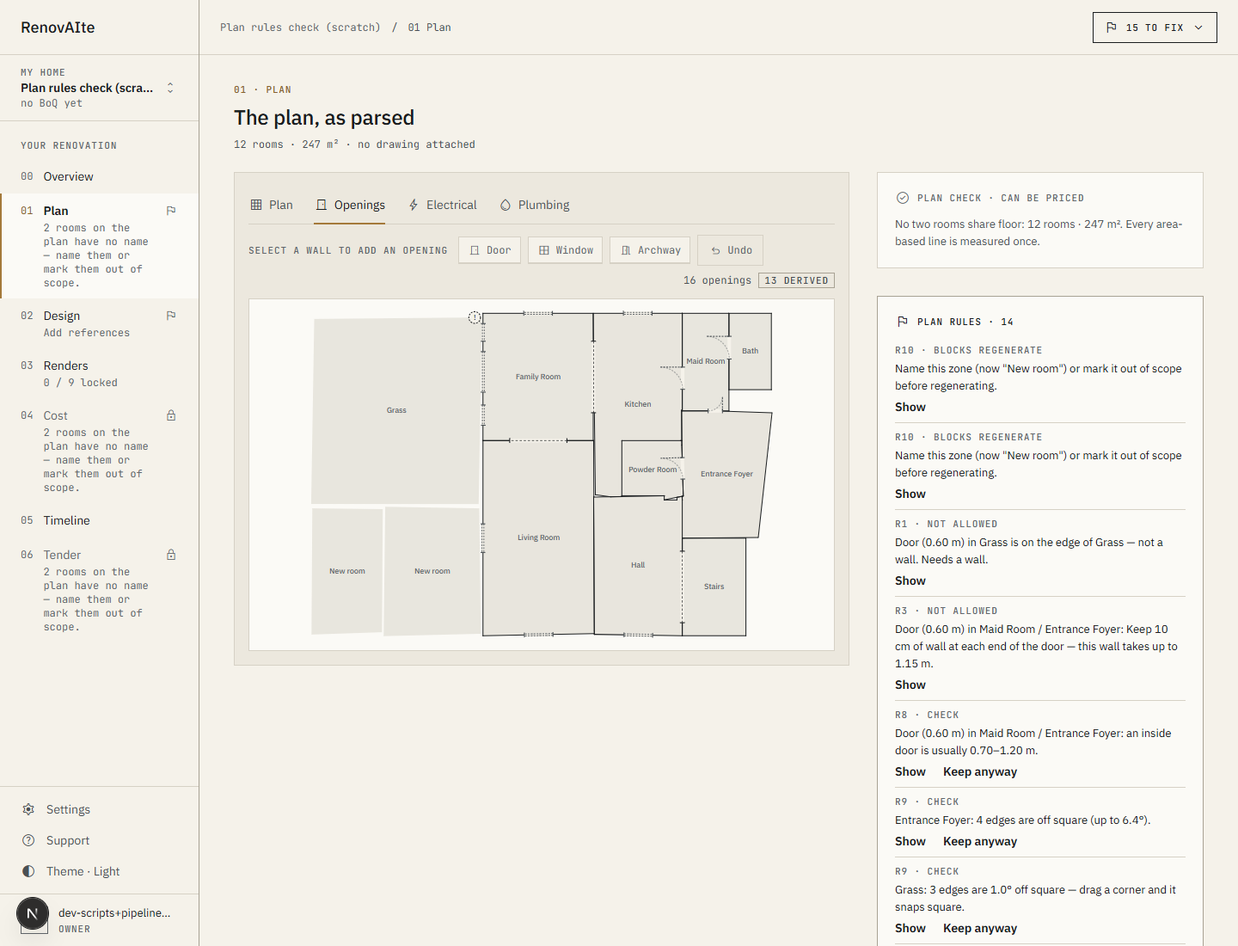
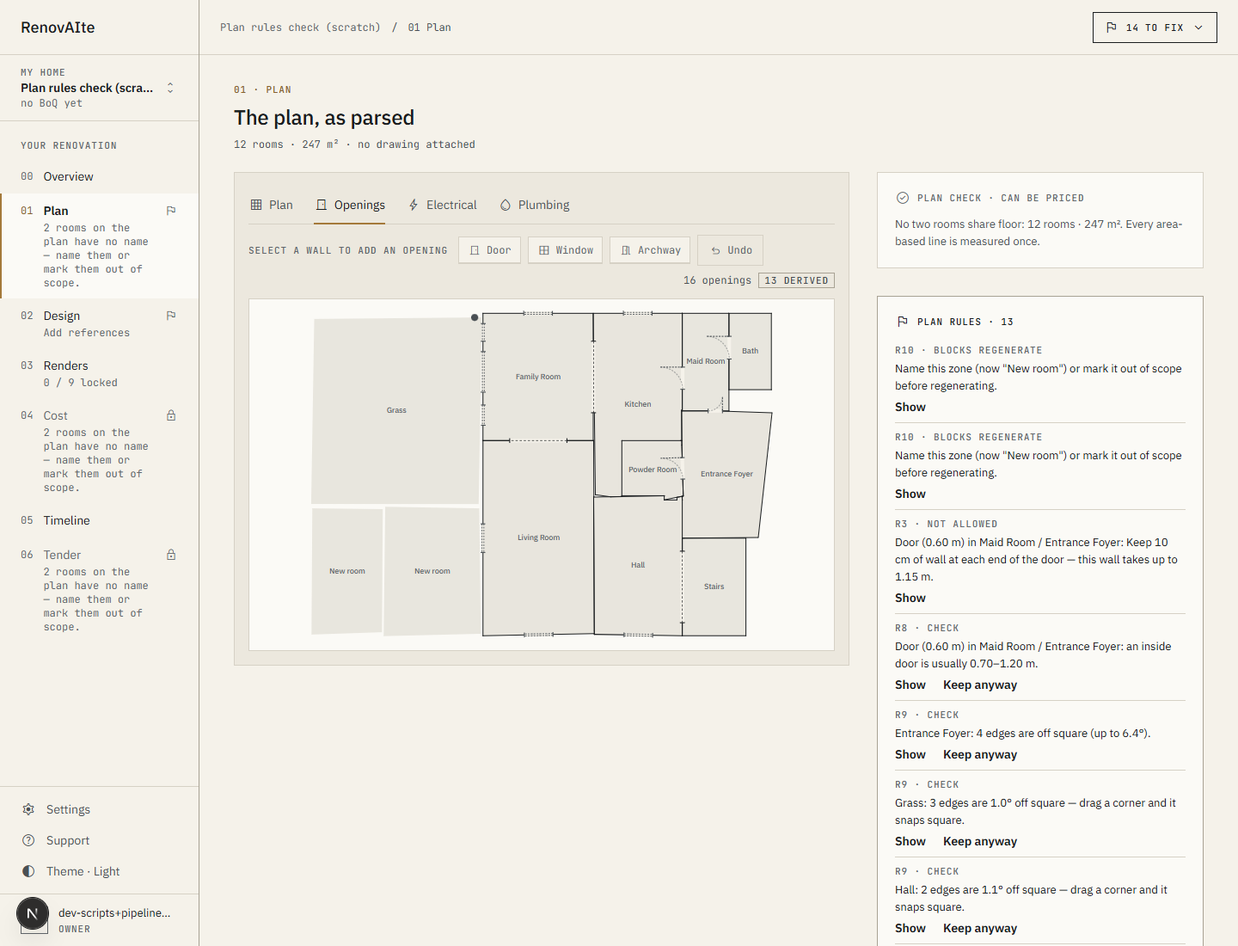
Plan rules: gardens exempt, snap only within 0.15 m, "N openings need a wall" cause
- Gates, openings in a garden wall, on a garden zone's edge or inside a garden
  zone are exempt from the plan rules (never "Needs a wall"); the "roofed room
  on one side" rule is gone. Test: a garden plan with a boundary gate, and
  Jumeirah Parks Garden with one.
- buildPlanGraph snaps an opening to a wall only within 0.15 m (before: any
  distance — a door on a lawn's edge came off the nearest house wall).
- Each BoQ revision records the openings it left out (openings_need_wall); the
  revision diff names the change on the lines net of openings: "N openings
  need a wall" / "N openings back on a wall".

Changed region(s): [[0.7188, 0.5564, 0.9375, 0.7418], [0.7188, 0.7727, 0.9375, 0.8964], [0.7188, 0.9273, 0.9375, 0.9582]]

diff --git a/lib/plan/__tests__/plan-rules.test.ts b/lib/plan/__tests__/plan-rules.test.ts
@@ -6,11 +6,14 @@ import { describe, expect, it } from "vitest";
 import fixture from "../__fixtures__/jumeirah-parks-plan-15oct.json";
 import { deriveWallSegments } from "../geometry";
 import { abbreviations, fitRoomLabel, labelInside } from "../label-fit";
+import { needsWallCause } from "../../boq/revision-causes";
+import { buildPlanGraph } from "../geometry";
 import { reanchorOpenings } from "../opening-anchor";
 import { planRuleIssues } from "../plan-issues";
 import {
   checkPlan,
   hardProblemFor,
+  inGarden,
   metresPerUnit,
   ON_WALL_TOL_M,
   openingsOnWalls,
@@ -152,6 +155,42 @@ describe("plan rules — soft (listed, can be kept)", () => {
   });
 });
 
+describe("gardens are exempt (ruled 15 Oct)", () => {
+  // A garden: the house (roofed), a paved terrace zone and a lawn, a boundary wall with a gate.
+  const house = room("house", rect(0, 0, 6, 4), { room_type: "living", name_en: "Living" });
+  const paving = room("paving", rect(0, 4, 6, 3), { room_type: "paving", unroofed: true, name_en: "Paving" });
+  const lawn = room("lawn", rect(0, 7, 6, 5), { room_type: "artificial_grass", unroofed: true, name_en: "Lawn" });
+  const garden = [house, paving, lawn];
+  const gateInWall: RuleOpening = { id: "gate", kind: "gate", width_mm: 1200, height_mm: 2000, sill_mm: 0, position: [3, 12], context_id: "wall-1" };
+  const gateOnEdge: RuleOpening = { id: "gate2", kind: "gate", width_mm: 1000, height_mm: 2000, sill_mm: 0, position: [6, 9] };
+  const doorBetweenZones = op("zone-door", "door", 2, 7, 900);
+  const doorInLawn = op("lawn-door", "door", 3, 9.5, 900);
+  const patioDoor = op("patio", "door", 3, 4, 900, { detection: { opens_to: "outside" } });
+
+  it("a boundary gate, a gate on a zone edge and a door between zones raise nothing and need no wall", () => {
+    const r = checkPlan({ rooms: garden, openings: [gateInWall, gateOnEdge, doorBetweenZones, doorInLawn, patioDoor], mPerU: 1 });
+    expect(r.violations.filter((v) => v.opening_id)).toEqual([]);
+    expect(r.needsWall.size).toBe(0);
+    for (const o of [gateInWall, gateOnEdge, doorBetweenZones, doorInLawn]) expect(inGarden(o, garden, 1), o.id).toBe(true);
+    expect(inGarden(patioDoor, garden, 1)).toBe(false); // the house wall onto the terrace is the house's
+  });
+
+  it("none of them is deducted from a house wall: the graph snaps only within 0.15 m", () => {
+    const g = buildPlanGraph({ projectId: "p", planId: "pl", scale: null, total_area_m2: 72, rooms: garden.map((r) => ({ id: r.id, name_en: r.name_en ?? null, name_ar: null, room_type: r.room_type ?? null, area_m2: null, polygon: (r.polygon as Pt[]).map(([x, y]) => [x / 6, y / 6]), unroofed: r.unroofed ?? null })), openings: [doorInLawn, patioDoor].map((o) => ({ id: o.id, type: o.kind, width_mm: o.width_mm, position: [(o.position as Pt)[0] / 6, (o.position as Pt)[1] / 6] })), unit_to_m: 6 });
+    expect(g.openings.find((o) => o.id === "lawn-door")!.wall_id).toBeNull();
+    expect(g.openings.find((o) => o.id === "patio")!.wall_id).not.toBeNull();
+  });
+});
+
+describe("the revision cause: N openings need a wall", () => {
+  it("names the openings a revision newly left out (and the ones back on a wall), on the lines net of openings", () => {
+    expect(needsWallCause({}, { openings_need_wall: ["a", "b"] }, "t")).toEqual({ kind: "openings_need_wall", at: "t", summary: "2 openings need a wall", item_keys: ["wall_plaster", "wall_paint", "wet_tiling"] });
+    expect(needsWallCause({ openings_need_wall: ["a", "b"] }, { openings_need_wall: ["b"] }, "t")?.summary).toBe("1 opening back on a wall");
+    expect(needsWallCause({ openings_need_wall: ["a"] }, { openings_need_wall: ["a"] }, "t")).toBeNull();
+    expect(needsWallCause({}, {}, "t")).toBeNull(); // every BoQ before the rules
+  });
+});
+
 describe("rule 2 — openings move with their wall", () => {
   it("a wall dragged out carries its door at the same fraction along it", () => {
     const before = [bed, study, hall];
@@ -199,20 +238,31 @@ describe("Jumeirah Parks (prod, 15 Oct)", () => {
     }
   });
 
-  it("the door left on the garden edge (the old powder-room door): not a wall — Needs a wall, drawn as such", () => {
+  it("the door left on the garden edge (the old powder-room door) is in the garden: exempt, never deducted from a house wall", () => {
     const door = openings.find((o) => o.id.startsWith("7df86cda"))!;
     const r = checkPlan({ rooms, openings, mPerU });
-    expect(r.placements.get(door.id)!.sides.map((id) => rooms.find((x) => x.id === id)?.name_en ?? null)).toEqual(["Grass", null]);
-    expect(rules(r.violations, door.id)).toEqual(["on_wall"]);
-    expect(r.needsWall.has(door.id)).toBe(true);
-    expect(wallAt(walls, door.position as Pt, ON_WALL_TOL_M / mPerU)).toBeNull(); // the editor agrees: no wall there
-    expect(hardProblemFor(door, [], rooms, mPerU)?.rule).toBe("exterior_wall"); // and refuses a drop there
+    expect(inGarden(door, rooms, mPerU)).toBe(true);
+    expect(rules(r.violations, door.id)).toEqual([]);
+    expect(r.needsWall.has(door.id)).toBe(false);
+    expect(wallAt(walls, door.position as Pt, ON_WALL_TOL_M / mPerU)).toBeNull(); // no house wall there to deduct from
+    expect(hardProblemFor(door, [], rooms, mPerU)).toBeNull();
+  });
+
+  it("Jumeirah Parks Garden with a boundary gate: the gate is exempt from every rule", () => {
+    const grass = rooms.find((x) => x.name_en === "Grass")!.polygon as Pt[];
+    const [a, b] = [grass[0]!, grass[1]!]; // an outer edge of the lawn
+    const gate: RuleOpening = { id: "gate-1", kind: "gate", width_mm: 1200, height_mm: 2000, sill_mm: 0, position: [(a[0] + b[0]) / 2, (a[1] + b[1]) / 2] };
+    const inWall: RuleOpening = { ...gate, id: "gate-2", kind: "door", context_id: "boundary-wall-1" };
+    const r = checkPlan({ rooms, openings: [...openings, gate, inWall], mPerU });
+    expect(r.violations.filter((v) => v.opening_id === "gate-1" || v.opening_id === "gate-2")).toEqual([]);
+    expect(openingsOnWalls([gate, inWall], rooms, mPerU).map((o) => o.id)).toEqual(["gate-1", "gate-2"]);
+    expect(hardProblemFor(gate, openings, rooms, mPerU)).toBeNull();
   });
 
   it("the audit: what the rules list on the plan as left", () => {
     const r = checkPlan({ rooms, openings, mPerU });
-    // Every opening but the garden-edge door is on its wall — the drawing was wrong, not the data.
-    expect([...r.needsWall].map((id) => id.slice(0, 8))).toEqual(["7df86cda"]);
+    // Every opening is on its wall (the garden-edge door is exempt) — the drawing was wrong, not the data.
+    expect(r.needsWall.size).toBe(0);
     expect(r.violations.filter((v) => v.rule === "unnamed")).toHaveLength(2);
     expect(r.violations.find((v) => v.rule === "label_lang")?.room_id).toBe(rooms.find((x) => x.name_en === "Hall")!.id);
     const skewed = r.violations.filter((v) => v.rule === "skew").map((v) => rooms.find((x) => x.id === v.room_id)!.name_en);

diff --git a/lib/plan/plan-rules.ts b/lib/plan/plan-rules.ts
@@ -23,6 +23,10 @@
 //   4 archway_shared / exterior_wall
 //                   an archway joins two rooms; an exterior door or window
 //                   has nothing (or a terrace / garden) on the other side.
+// Exempt (ruled 15 Oct): gates, anything in a garden wall (`context_id`) and
+// anything on a garden zone's edge or inside a garden zone — the garden is
+// drawn with its own layers; these rules are for the house. They are never
+// "Needs a wall" and never deducted from a house wall.
 // Soft — listed, can be kept:
 //   5 wet_room_door  6 window_interior  7 no_way_in  8 size  9 skew  11 label_lang
 // Blocks regenerate:
@@ -270,6 +274,7 @@ export function placementsOverlap(A: Placement, wA: number, B: Placement, wB: nu
 export function hardProblemFor(o: RuleOpening, others: readonly RuleOpening[], rooms: readonly RuleRoom[], mPerU: number, ceilingM = CEILING_DEFAULT_M): { rule: RuleKey; message: string } | null {
   const cand = withWidth(o);
   const pl = placeOpening(cand, rooms, mPerU);
+  if (inGarden(cand, rooms, mPerU, pl)) return null;
   if (!pl) return { rule: "on_wall", message: "An opening sits on a wall — drop it on one." };
   const byId = new Map(rooms.map((r) => [r.id, r]));
   const sides: [RuleRoom | null, RuleRoom | null] = [pl.sides[0] ? byId.get(pl.sides[0])! : null, pl.sides[1] ? byId.get(pl.sides[1])! : null];
@@ -307,13 +312,29 @@ export function fitProblem(o: Pick<RuleOpening, "kind" | "width_mm" | "height_mm
 export function wallKindProblem(o: Pick<RuleOpening, "kind" | "detection" | "spec">, sides: [RuleRoom | null, RuleRoom | null]): { rule: RuleKey; message: string } | null {
   const [s1, s2] = sides;
   if (o.kind === "archway" && !(isRoom(s1) && isRoom(s2))) return { rule: "archway_shared", message: "An archway joins two rooms — this wall has nothing on the other side." };
-  if ((o.kind === "door" || o.kind === "window") && !isRoom(s1) && !isRoom(s2)) {
-    return { rule: "exterior_wall", message: `A ${o.kind} needs a room on one side — this edge is between ${s1?.name_en ?? "nothing"} and ${s2?.name_en ?? "nothing"}.` };
-  }
   if ((o.kind === "door" || o.kind === "window") && isExterior(o as RuleOpening) && !isOutside(s1) && !isOutside(s2)) {
     return { rule: "exterior_wall", message: `An outside ${o.kind} needs nothing on the other side — this wall is between ${s1?.name_en ?? "a room"} and ${s2?.name_en ?? "a room"}.` };
   }
   return null;
+}
+
+const isGardenZone = (r: RuleRoom | null | undefined) => !!r && (isOutdoorType(r.room_type) || r.unroofed === true);
+
+/**
+ * In the garden: a gate, an opening in a garden wall, or one on a garden zone's
+ * edge (no roofed room either side) or inside a garden zone. Exempt from the
+ * plan rules (ruled 15 Oct).
+ */
+export function inGarden(o: RuleOpening, rooms: readonly RuleRoom[], mPerU: number, pl: Placement | null = placeOpening(o, rooms, mPerU)): boolean {
+  if (o.kind === "gate" || o.context_id) return true;
+  const byId = new Map(rooms.map((r) => [r.id, r]));
+  if (pl) return !pl.sides.some((id) => id && !isGardenZone(byId.get(id)));
+  const p = asPt(o.position);
+  return !!p && rooms.some((r) => {
+    if (!isGardenZone(r)) return false;
+    const poly = asPoly(r.polygon);
+    return !!poly && pointInPolygon(p, poly);
+  });
 }
 
 export interface PlanRulesInput {
@@ -343,7 +364,7 @@ export function checkPlan({ rooms, openings, mPerU, ceilingM = CEILING_DEFAULT_M
   };
   const placements = new Map<string, Placement>();
   const needsWall = new Set<string>();
-  const roomOpenings = openings.filter((o) => o.kind !== "gate" && !o.context_id).map(withWidth);
+  const roomOpenings = openings.filter((o) => o.kind !== "gate" && !o.context_id).map(withWidth).filter((o) => !inGarden(o, rooms, mPerU));
   const label = (o: RuleOpening) => {
     const pl = placements.get(o.id);
     const where = pl ? pl.sides.filter(Boolean).map((id) => name(id)).join(" / ") : name(o.room_id);
@@ -361,13 +382,6 @@ export function checkPlan({ rooms, openings, mPerU, ceilingM = CEILING_DEFAULT_M
     placements.set(o.id, pl);
     const sides: [RuleRoom | null, RuleRoom | null] = [pl.sides[0] ? byId.get(pl.sides[0])! : null, pl.sides[1] ? byId.get(pl.sides[1])! : null];
     const roofed = sides.some((s) => s && !isOutdoorType(s.room_type) && s.unroofed !== true);
-    if (!roofed) {
-      // The edge of a garden zone with nothing roofed beside it is a change of surface,
-      // not a wall (the G1 open-edge rule: no wall segment is derived there).
-      needsWall.add(o.id);
-      push("on_wall", `${label(o)} is on the edge of ${sides.filter(Boolean).map((x) => x!.name_en?.trim() || "a zone").join(" / ") || "nothing"} — not a wall. Needs a wall.`, { opening_id: o.id }, o.spec);
-      continue;
-    }
     const fp = fitProblem(o, pl, roofed ? ceilingM : Infinity);
     if (fp?.rule === "wall_short") needsWall.add(o.id);
     if (fp) push(fp.rule, `${label(o)}: ${fp.message}${fp.rule === "wall_short" ? " Needs a wall." : ""}`, { opening_id: o.id }, o.spec);

diff --git a/lib/boq/assemble.ts b/lib/boq/assemble.ts
@@ -103,6 +103,8 @@ export interface BoqInputs {
   referenceRows: ReferenceRateRow[];
   /** K12: Q-11's context — a stairs room on the plan at all (in scope or not), and a villa / multi-level project. */
   stairs?: StairsContext;
+  /** 15 Oct: house openings the plan rules left out ("Needs a wall"), recorded on the document. */
+  openingsNeedWall?: string[];
 }
 
 /** Why a project cannot be priced: the HTTP status and body the route answers with. */
@@ -262,8 +264,10 @@ export async function loadBoqInputs(supabase: SupabaseClient, projectId: string,
   // deciding a pricing path. The mapping now runs whenever the plan yields a
   // take-off; the viewer flag gates only the viewer and inspect UI.
   let takeoffItems: TakeoffItem[] = [];
+  let openingsNeedWall: string[] = [];
   try {
     const graph = await derivePlanGraph(projectId);
+    openingsNeedWall = graph.openings_need_wall ?? [];
     const proposed = await getProposedGraph(projectId);
     takeoffItems = quantifyPlan(graph, { proposed });
     if (!opts.dryRun) await persistTakeoffItems(projectId, takeoffItems, supabase);
@@ -279,7 +283,7 @@ export async function loadBoqInputs(supabase: SupabaseClient, projectId: string,
   const referenceRows = await loadReferenceRows(supabase);
 
   return {
-    inputs: { project, plan, rooms, labourRates: labourRes.data, skus: skuRes.data, chosenStyleKey, approvedCount, takeoffItems, firm, referenceRows, stairs },
+    inputs: { project, plan, rooms, labourRates: labourRes.data, skus: skuRes.data, chosenStyleKey, approvedCount, takeoffItems, firm, referenceRows, stairs, ...(openingsNeedWall.length ? { openingsNeedWall } : {}) },
   };
 }
 
@@ -352,7 +356,10 @@ export async function priceDeterministicBoq(supabase: SupabaseClient, projectId:
   const owned = applyOwnBasis(gardened as unknown as Parameters<typeof applyOwnBasis>[0], await loadAppliedCorrections(supabase, projectId)).boq as unknown as typeof gardened;
   // L1: the firm's OH&P, LAST — its own summary line over the priced
   // subtotal, never inside a rate. A no-op without a firm book.
-  return applyOhp(owned, firm.ohpPct);
+  const priced = applyOhp(owned, firm.ohpPct);
+  // 15 Oct: the openings left out as "Needs a wall" — the record the revision
+  // diff names ("N openings need a wall"). Absent when none (every BoQ before).
+  return inputs.openingsNeedWall?.length ? { ...priced, openings_need_wall: inputs.openingsNeedWall } : priced;
 }
 
 /** Load + price in one call (the dry-run scripts and the invariance test). */

diff --git a/app/project/[id]/plan/_components/openings-editor.tsx b/app/project/[id]/plan/_components/openings-editor.tsx
@@ -48,7 +48,7 @@ import { roomNameLabel as nameLabel } from "./label-render";
 import { Icon } from "@/components/blueprint/Icon";
 import { OPENINGS_CHANGED_EVENT } from "@/components/blueprint/plan/OpeningsCheckPanel";
 import { isUnconfirmedDetected, type DetectionMeta } from "@/lib/plan/openings-vocab";
-import { END_CLEAR_M, hardProblemFor, ON_WALL_TOL_M, wallAt, type RuleOpening, type RuleRoom } from "@/lib/plan/plan-rules";
+import { END_CLEAR_M, hardProblemFor, inGarden, ON_WALL_TOL_M, wallAt, type RuleOpening, type RuleRoom } from "@/lib/plan/plan-rules";
 
 import {
   CANVAS_FRAME,
@@ -688,8 +688,17 @@ export function OpeningsEditor({
             const wall = wallFor(o);
             if (!o.position) return null;
             if (!wall) {
-              // Rule 1/2: on no wall — out of the BoQ and the renders until it is put back on one.
               const c = fit.toViewBox(o.position);
+              // In the garden (a gate, a garden wall, a zone edge): exempt from the house rules (15 Oct).
+              if (inGarden(asRule(o), ruleRooms, 1 / rawPerM)) {
+                return (
+                  <g key={o.id} data-garden-opening={o.id} className="cursor-pointer" onPointerDown={(e) => { e.stopPropagation(); setSelectedOpeningId(o.id); }}>
+                    <title>{`${o.kind} in the garden — not on a house wall`}</title>
+                    <circle cx={c[0]} cy={c[1]} r={6} fill={SVG.inkSecondary} stroke={o.id === selectedOpeningId ? SVG.brass : "none"} strokeWidth={2} />
+                  </g>
+                );
+              }
+              // Rule 1/2: on no wall — out of the BoQ and the renders until it is put back on one.
               return (
                 <g key={o.id} onPointerDown={(e) => onOpeningPointerDown(e, o)} className={readOnly ? undefined : "cursor-grab"} style={{ touchAction: "none" }} data-needs-wall={o.id}>
                   <title>{`${o.kind} — needs a wall: drag it onto one`}</title>
@@ -730,7 +739,7 @@ export function OpeningsEditor({
         <OpeningProperties
           key={`${selectedOpening.id}:${selectedOpening.width_mm}:${selectedOpening.height_mm}:${selectedOpening.sill_mm}`}
           opening={selectedOpening}
-          needsWall={!wallFor(selectedOpening)}
+          needsWall={!wallFor(selectedOpening) && !inGarden(asRule(selectedOpening), ruleRooms, 1 / rawPerM)}
           onChange={(patch) => {
             const no = refusal({ ...selectedOpening, ...(patch as Partial<PlanOpening>) });
             if (no) {

diff --git a/lib/boq/revision-causes.ts b/lib/boq/revision-causes.ts
@@ -47,6 +47,22 @@ async function rows(db: SupabaseClient, build: () => PromiseLike<{ data: unknown
 const str = (v: unknown) => (typeof v === "string" ? v : v == null ? "" : String(v));
 const num = (v: unknown) => (v == null ? null : Number(v));
 
+/**
+ * 15 Oct: the openings each revision left out as "Needs a wall" are recorded on
+ * it (`openings_need_wall`; absent = none — every revision before the plan
+ * rules). When the set differs, the lines net of openings (plaster, paint, wet
+ * tiling) carry "N openings need a wall" / "N openings back on a wall".
+ */
+export function needsWallCause(from: unknown, to: unknown, atISO: string): RecordedCause | null {
+  const ids = (d: unknown) => new Set(Array.isArray((d as { openings_need_wall?: unknown } | null)?.openings_need_wall) ? ((d as { openings_need_wall: unknown[] }).openings_need_wall.map(String)) : []);
+  const a = ids(from), b = ids(to);
+  const out = [...b].filter((x) => !a.has(x)).length;
+  const back = [...a].filter((x) => !b.has(x)).length;
+  if (!out && !back) return null;
+  const parts = [out ? `${out} ${out === 1 ? "opening needs" : "openings need"} a wall` : null, back ? `${back} ${back === 1 ? "opening" : "openings"} back on a wall` : null].filter(Boolean);
+  return { kind: "openings_need_wall", at: atISO, summary: parts.join("; "), item_keys: [...OPENING_NET_ITEM_KEYS] };
+}
+
 export async function loadRecordedCauses(db: SupabaseClient, projectId: string, fromISO: string, toISO: string, toBoqId: string): Promise<RecordedCause[]> {
   const out: RecordedCause[] = [];
 

diff --git a/lib/plan/geometry.ts b/lib/plan/geometry.ts
@@ -28,6 +28,7 @@ import {
   type LinearElement,
   type RawLinearElement,
 } from "./elements";
+import { ON_WALL_TOL_M } from "./plan-rules";
 import { pointToSegment } from "./polygon";
 import { dispositionOf, draftStatus, isInDesign, type Disposition, type DraftStatus } from "./site-reference";
 import { defaultUnroofed } from "./zones";
@@ -286,6 +287,8 @@ export interface PlanGraph {
   meta: PlanGraphMeta;
   derived: DerivedRecord;
   notes: string[];
+  /** 15 Oct: house openings left out because they need a wall (set by derivePlanGraph; absent when none). */
+  openings_need_wall?: string[];
 }
 
 // --- raw input (shape of a persisted room, DB or parsed_json) -----------------
@@ -810,6 +813,15 @@ export function buildPlanGraph(input: BuildPlanGraphInput): PlanGraph {
           if (!a || !b) continue;
           const { dist, t } = pointToSegment(posM, a, b);
           if (dist < best) { best = dist; wall_id = w.id; along = t; }
+        }
+        // 15 Oct: only a wall the opening SITS on (≤ 0.15 m). Before, any distance
+        // snapped — a door on a lawn's edge came off the nearest house wall. An
+        // opening further away keeps no wall and is deducted from none (garden
+        // openings are exempt from the plan rules; derivePlanGraph has already
+        // dropped any house opening that needs a wall).
+        if (wall_id && best > ON_WALL_TOL_M) {
+          wall_id = null;
+          along = ro.along_offset ?? null;
         }
       }
       return {

diff --git a/lib/boq/revision-diff-types.ts b/lib/boq/revision-diff-types.ts
@@ -8,7 +8,7 @@
 // =============================================================================
 
 export type DiffClass = "quantity" | "rate" | "both" | "total" | "added" | "removed";
-export type CauseKind = "correction" | "applied_correction" | "reverted_correction" | "firm_rate" | "plan_edit" | "scope_change" | "openings_confirmed" | "session_decision" | "regeneration" | "engine_rounding";
+export type CauseKind = "correction" | "applied_correction" | "reverted_correction" | "firm_rate" | "plan_edit" | "scope_change" | "openings_confirmed" | "openings_need_wall" | "session_decision" | "regeneration" | "engine_rounding";
 
 /** Human label for a class, shared by the view and the PDF. */
 export const DIFF_CLASS_LABEL: Record<DiffClass, string> = {
@@ -32,6 +32,7 @@ export const CAUSE_KIND_LABEL: Record<CauseKind, string> = {
   scope_change: "Scope changed",
   // R10b: openings found on the drawing, confirmed by the owner on 01 Plan.
   openings_confirmed: "Openings confirmed",
+  openings_need_wall: "Openings need a wall",
   session_decision: "Session decision",
   regeneration: "BoQ regenerated",
   engine_rounding: "H7 rounding",

diff --git a/lib/boq/revisions.ts b/lib/boq/revisions.ts
@@ -19,7 +19,7 @@ import type { BoqProvenance } from "@/lib/provenance/types";
 
 import { approvalStatus, listApprovals, type BoqApproval, type RevisionApprovalStatus } from "./approvals";
 import { assignRefs } from "./refs";
-import { loadRecordedCauses } from "./revision-causes";
+import { loadRecordedCauses, needsWallCause } from "./revision-causes";
 import { diffRevisions, snapshotRevision, type RevisionBoq, type RevisionDiff } from "./revision-diff";
 
 export interface RevisionSummary {
@@ -122,6 +122,8 @@ export async function buildProjectRevisionDiff(db: SupabaseClient, projectId: st
     summary: curateText(c.summary, ctx.withheldNames),
     descriptions: c.descriptions?.map((d) => curateText(d, ctx.withheldNames)),
   }));
+  const needsWall = needsWallCause(early.boq, late.boq, late.created_at);
+  if (needsWall) recorded.push({ ...needsWall, descriptions: undefined });
   const diff = diffRevisions(snapshotRevision(before.boq_id, before.created_at, before.boq), snapshotRevision(after.boq_id, after.created_at, after.boq), recorded);
   return {
     project,

diff --git a/lib/plan/derive.ts b/lib/plan/derive.ts
@@ -239,7 +239,7 @@ export async function derivePlanGraph(projectId: string, opts: { includeUnconfir
   );
   const openings = loadedOpenings.filter((o) => onWalls.has(o.id));
 
-  return buildPlanGraph({
+  const graph = buildPlanGraph({
     projectId,
     planId: plan.id,
     scale: parsed?.scale ?? null,
@@ -259,4 +259,7 @@ export async function derivePlanGraph(projectId: string, opts: { includeUnconfir
     dims_note: authored.dims_note ?? null,
     source: authored.source,
   });
+  // Recorded so the BoQ can name them ("N openings need a wall") — absent when none.
+  const excluded = loadedOpenings.filter((o) => !onWalls.has(o.id)).map((o) => o.id).sort();
+  return excluded.length ? { ...graph, openings_need_wall: excluded } : graph;
 }

diff --git a/lib/boq/revisions-view.ts b/lib/boq/revisions-view.ts
@@ -112,7 +112,7 @@ export function revisionOptions(revisions: readonly RevisionSummary[]): Revision
 function causeHref(projectId: string, kind: CauseKind): string | null {
   if (kind === "firm_rate") return `/project/${projectId}/rates`;
   if (kind === "correction" || kind === "applied_correction" || kind === "reverted_correction") return `/project/${projectId}/boq`;
-  if (kind === "plan_edit" || kind === "scope_change" || kind === "openings_confirmed" || kind === "session_decision") return `/project/${projectId}/plan`;
+  if (kind === "plan_edit" || kind === "scope_change" || kind === "openings_confirmed" || kind === "openings_need_wall" || kind === "session_decision") return `/project/${projectId}/plan`;
   return null;
 }
 

diff --git a/lib/boq/__tests__/own-basis.test.ts b/lib/boq/__tests__/own-basis.test.ts
@@ -277,7 +277,7 @@ describe("the wiring (static)", () => {
     const at = src.indexOf("applyOwnBasis(gardened");
     expect(at).toBeGreaterThan(0);
     expect(src.indexOf("await loadAppliedCorrections(supabase, projectId)")).toBeGreaterThan(0);
-    expect(at).toBeLessThan(src.indexOf("return applyOhp(owned, firm.ohpPct)"));
+    expect(at).toBeLessThan(src.indexOf("applyOhp(owned, firm.ohpPct)"));
   });
 
   it("the inspector offers Add a price on an unpriced line and Apply / Save on a correction", () => {

diff --git a/CLAUDE.md b/CLAUDE.md
@@ -808,10 +808,17 @@ fixture `lib/plan/__fixtures__/jumeirah-parks-plan-15oct.json`); live:
   wall shorter than it; 3 0.1 m clear each end, no overlap on one wall, height
   ≤ ceiling (2.9 m), sill + height ≤ ceiling; 4 an archway between two rooms (a
   terrace counts, a lawn does not), an outside door/window with nothing / a
-  terrace / a garden beyond, a door or window with a roofed room on one side.
-  **"Needs a wall"** (rules 1–2, or on a garden edge): `derivePlanGraph` and the
-  render loader leave it out (`openingsOnWalls`); the editor draws a dashed "!"
-  marker that drags back onto a wall.
+  terrace / a garden beyond. **"Needs a wall"** (rules 1–2): `derivePlanGraph`
+  and the render loader leave it out (`openingsOnWalls`); the editor draws a
+  dashed "!" marker that drags back onto a wall. Each revision records the ids
+  (`openings_need_wall` on the BoQ document, absent when none) and the diff
+  names the change on the lines net of openings: **"N openings need a wall"** /
+  "N openings back on a wall" (`needsWallCause`).
+- **Gardens are exempt** (ruled 15 Oct, `inGarden`): a gate, anything in a
+  garden wall (`context_id`), on a garden zone's edge or inside a garden zone —
+  no rule, never "Needs a wall", a plain marker in the editor. And
+  `buildPlanGraph` snaps an opening to a wall only within 0.15 m (before: any
+  distance — a door on a lawn's edge came off the nearest house wall).
 - **Openings move with their wall** (`lib/plan/opening-anchor.ts`):
   `/api/update-plan` reads the old outlines and openings, fits the frame change
   (one scale + offset over rooms that kept their corner count — a save can re-fit
